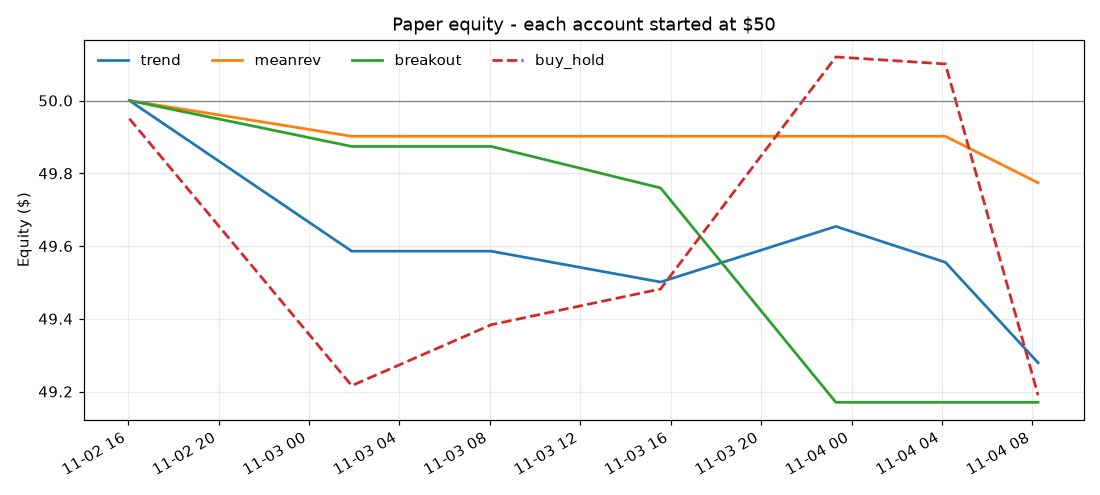
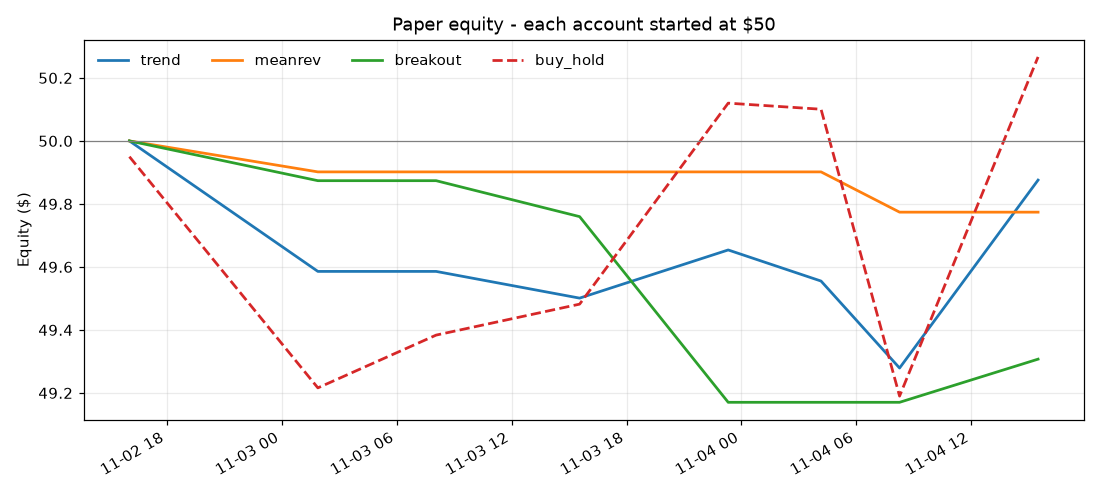
tick 09:58

diff --git a/REPORT.md b/REPORT.md
@@ -1,13 +1,13 @@
-# Crypto paper-trading trial (🟢 RUNNING - 7.8h left)
+# Crypto paper-trading trial (🟢 RUNNING - 0.6h left)
 
-Fake money, real binance_vision prices. Started **02 Nov 16:03 IST**, ends **04 Nov 16:03 IST**. Each strategy started with **$50**. Coins: BTC, ETH, SOL, XRP, DOGE on 15m candles. Fees 0.1%/side + 0.05% slippage included. Last update 04 Nov 08:15 IST (run #7).
+Fake money, real binance_vision prices. Started **02 Nov 16:03 IST**, ends **04 Nov 16:03 IST**. Each strategy started with **$50**. Coins: BTC, ETH, SOL, XRP, DOGE on 15m candles. Fees 0.1%/side + 0.05% slippage included. Last update 04 Nov 15:28 IST (run #8).
 
 | Account | Equity | P&L | Return | Trades | Win rate | Open |
 |---|---:|---:|---:|---:|---:|---:|
-| **trend** | $49.28 | $-0.72 | -1.44% | 8 | 12% | 0 |
+| **trend** | $49.88 | $-0.12 | -0.25% | 9 | 22% | 2 |
 | **meanrev** | $49.77 | $-0.23 | -0.45% | 2 | 0% | 0 |
-| **breakout** | $49.17 | $-0.83 | -1.66% | 8 | 0% | 0 |
-| *buy & hold (benchmark)* | $49.19 | $-0.81 | -1.62% | - | - | - |
+| **breakout** | $49.31 | $-0.69 | -1.39% | 8 | 0% | 1 |
+| *buy & hold (benchmark)* | $50.27 | $+0.27 | +0.53% | - | - | - |
 
 ![equity](equity.png)
 
@@ -19,12 +19,17 @@ Fake money, real binance_vision prices. Started **02 Nov 16:03 IST**, ends **04 
 
 ## Open positions
 
-None.
+| Strategy | Coin | Entry | Now | Stop | Target | Unrealized |
+|---|---|---:|---:|---:|---:|---:|
+| trend | BTC | 77447.9 | 78431.3 | 76799 | 78745.6 | $+0.192 |
+| trend | XRP | 1.27174 | 1.2815 | 1.2581 | 1.299 | $+0.110 |
+| breakout | ETH | 2298.48 | 2319.99 | 2306.12 | trailing | $+0.137 |
 
 ## Last 25 closed trades
 
 | Strategy | Coin | In | Out | Entry | Exit | P&L | Why |
 |---|---|---|---|---:|---:|---:|---|
+| trend | ETH | 04 Nov 10:45 | 04 Nov 14:00 | 2281.81 | 2327.28 | $+0.294 (+1.79%) | take-profit |
 | trend | DOGE | 04 Nov 02:15 | 04 Nov 06:00 | 0.0752476 | 0.0747678 | $-0.138 (-0.84%) | stop-loss |
 | trend | XRP | 04 Nov 02:30 | 04 Nov 05:45 | 1.28024 | 1.27346 | $-0.121 (-0.73%) | EMA cross-down |
 | meanrev | ETH | 04 Nov 06:30 | 04 Nov 06:45 | 2275.82 | 2262.86 | $-0.128 (-0.77%) | stop-loss |
